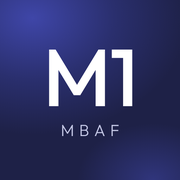
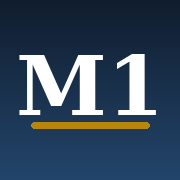
Hub M1 MBAF 6.0.5 — configuration d'icône remise à l'identique de la 5.1
Claude-Session: https://claude.ai/code/session_01NkqTKtuppBRBWMxP22mcFo

diff --git a/sw.js b/sw.js
@@ -13,7 +13,7 @@
    ⚠ Cette valeur doit rester IDENTIQUE à VERSION_APP,
       en haut de ui.js.
    ════════════════════════════════════════════════════════════ */
-const VERSION = '6.0.4';        // « Ducat »
+const VERSION = '6.0.5';        // « Ducat »
 const CACHE_APP  = 'm1-app-'+VERSION;      // les fichiers du site
 const CACHE_EXT  = 'm1-ext-'+VERSION;      // polices et bibliothèques externes
 
@@ -44,7 +44,9 @@ const FICHIERS = [
   'banque.js',
   'calendrier.js',
   'bequick.js',
-  /* (les icônes et le manifeste ne passent pas par le service worker) */
+  'manifest.webmanifest',
+  'icons/icon-192.png',
+  'icons/icon-512.png',
   /* Copies locales des photos de matière : affichées si Unsplash ne répond pas */
   'img/accueil.webp',
   'img/sujet-droits-particuliers.webp',
@@ -91,9 +93,6 @@ self.addEventListener('fetch', e=>{
   if(req.method !== 'GET') return;
   const url = new URL(req.url);
 
-  /* Icônes et manifeste : jamais interceptés, le téléphone les lit directement
-     (l'icône d'écran d'accueil de l'iPhone ne doit dépendre de rien d'autre) */
-  if(url.origin === self.location.origin && /\/icons\/|apple-touch-icon|favicon|manifest\.webmanifest/.test(url.pathname)) return;
   /* Les fonctions Netlify (notification de test) : toujours le réseau */
   if(url.pathname.startsWith('/.netlify/')) return;
 

diff --git a/marche_des_particuliers.html b/marche_des_particuliers.html
@@ -258,15 +258,9 @@ h1.lesson-title{font-family:'Fraunces',serif;font-size:2.35rem;line-height:1.12;
 </style>
 <link rel="stylesheet" href="ui.css">
 <link rel="stylesheet" href="theme.css">
-<link rel="manifest" href="/manifest.webmanifest?v=603">
+<link rel="manifest" href="manifest.webmanifest">
 <meta name="theme-color" content="#ECEEF6">
-<link rel="icon" type="image/png" sizes="32x32" href="icons/favicon-32.png">
-<link rel="icon" type="image/png" sizes="48x48" href="icons/favicon-48.png">
-<link rel="apple-touch-icon" href="/apple-touch-icon.png?v=603">
-<link rel="apple-touch-icon" sizes="120x120" href="/icons/apple-touch-icon-120.png?v=603">
-<link rel="apple-touch-icon" sizes="152x152" href="/icons/apple-touch-icon-152.png?v=603">
-<link rel="apple-touch-icon" sizes="167x167" href="/icons/apple-touch-icon-167.png?v=603">
-<link rel="apple-touch-icon" sizes="180x180" href="/icons/apple-touch-icon-180.png?v=603">
+<link rel="apple-touch-icon" href="icons/apple-touch-icon.png">
 <meta name="apple-mobile-web-app-capable" content="yes">
 <meta name="apple-mobile-web-app-title" content="M1 MBAF">
 </head>

diff --git a/marketing_numerique.html b/marketing_numerique.html
@@ -228,15 +228,9 @@ h1.lesson-title{font-family:'Fraunces',serif;font-size:2.35rem;line-height:1.12;
 </style>
 <link rel="stylesheet" href="ui.css">
 <link rel="stylesheet" href="theme.css">
-<link rel="manifest" href="/manifest.webmanifest?v=603">
+<link rel="manifest" href="manifest.webmanifest">
 <meta name="theme-color" content="#ECEEF6">
-<link rel="icon" type="image/png" sizes="32x32" href="icons/favicon-32.png">
-<link rel="icon" type="image/png" sizes="48x48" href="icons/favicon-48.png">
-<link rel="apple-touch-icon" href="/apple-touch-icon.png?v=603">
-<link rel="apple-touch-icon" sizes="120x120" href="/icons/apple-touch-icon-120.png?v=603">
-<link rel="apple-touch-icon" sizes="152x152" href="/icons/apple-touch-icon-152.png?v=603">
-<link rel="apple-touch-icon" sizes="167x167" href="/icons/apple-touch-icon-167.png?v=603">
-<link rel="apple-touch-icon" sizes="180x180" href="/icons/apple-touch-icon-180.png?v=603">
+<link rel="apple-touch-icon" href="icons/apple-touch-icon.png">
 <meta name="apple-mobile-web-app-capable" content="yes">
 <meta name="apple-mobile-web-app-title" content="M1 MBAF">
 </head>

diff --git a/produits_derives.html b/produits_derives.html
@@ -237,15 +237,9 @@ h1.lesson-title{font-family:'Fraunces',serif;font-size:2.35rem;line-height:1.12;
 </style>
 <link rel="stylesheet" href="ui.css">
 <link rel="stylesheet" href="theme.css">
-<link rel="manifest" href="/manifest.webmanifest?v=603">
+<link rel="manifest" href="manifest.webmanifest">
 <meta name="theme-color" content="#ECEEF6">
-<link rel="icon" type="image/png" sizes="32x32" href="icons/favicon-32.png">
-<link rel="icon" type="image/png" sizes="48x48" href="icons/favicon-48.png">
-<link rel="apple-touch-icon" href="/apple-touch-icon.png?v=603">
-<link rel="apple-touch-icon" sizes="120x120" href="/icons/apple-touch-icon-120.png?v=603">
-<link rel="apple-touch-icon" sizes="152x152" href="/icons/apple-touch-icon-152.png?v=603">
-<link rel="apple-touch-icon" sizes="167x167" href="/icons/apple-touch-icon-167.png?v=603">
-<link rel="apple-touch-icon" sizes="180x180" href="/icons/apple-touch-icon-180.png?v=603">
+<link rel="apple-touch-icon" href="icons/apple-touch-icon.png">
 <meta name="apple-mobile-web-app-capable" content="yes">
 <meta name="apple-mobile-web-app-title" content="M1 MBAF">
 </head>

diff --git a/glossaire.html b/glossaire.html
@@ -98,15 +98,9 @@ mark{background:var(--amber-l);color:inherit;padding:0 2px;border-radius:3px;fon
 </style>
 <link rel="stylesheet" href="ui.css">
 <link rel="stylesheet" href="theme.css">
-<link rel="manifest" href="/manifest.webmanifest?v=603">
+<link rel="manifest" href="manifest.webmanifest">
 <meta name="theme-color" content="#ECEEF6">
-<link rel="icon" type="image/png" sizes="32x32" href="icons/favicon-32.png">
-<link rel="icon" type="image/png" sizes="48x48" href="icons/favicon-48.png">
-<link rel="apple-touch-icon" href="/apple-touch-icon.png?v=603">
-<link rel="apple-touch-icon" sizes="120x120" href="/icons/apple-touch-icon-120.png?v=603">
-<link rel="apple-touch-icon" sizes="152x152" href="/icons/apple-touch-icon-152.png?v=603">
-<link rel="apple-touch-icon" sizes="167x167" href="/icons/apple-touch-icon-167.png?v=603">
-<link rel="apple-touch-icon" sizes="180x180" href="/icons/apple-touch-icon-180.png?v=603">
+<link rel="apple-touch-icon" href="icons/apple-touch-icon.png">
 <meta name="apple-mobile-web-app-capable" content="yes">
 <meta name="apple-mobile-web-app-title" content="M1 MBAF">
 </head>

diff --git a/bequick.html b/bequick.html
@@ -164,15 +164,9 @@ main{max-width:980px;margin:0 auto;padding:12px 16px 120px;min-width:0}
 </style>
 <link rel="stylesheet" href="ui.css">
 <link rel="stylesheet" href="theme.css">
-<link rel="manifest" href="/manifest.webmanifest?v=603">
+<link rel="manifest" href="manifest.webmanifest">
 <meta name="theme-color" content="#ECEEF6">
-<link rel="icon" type="image/png" sizes="32x32" href="icons/favicon-32.png">
-<link rel="icon" type="image/png" sizes="48x48" href="icons/favicon-48.png">
-<link rel="apple-touch-icon" href="/apple-touch-icon.png?v=603">
-<link rel="apple-touch-icon" sizes="120x120" href="/icons/apple-touch-icon-120.png?v=603">
-<link rel="apple-touch-icon" sizes="152x152" href="/icons/apple-touch-icon-152.png?v=603">
-<link rel="apple-touch-icon" sizes="167x167" href="/icons/apple-touch-icon-167.png?v=603">
-<link rel="apple-touch-icon" sizes="180x180" href="/icons/apple-touch-icon-180.png?v=603">
+<link rel="apple-touch-icon" href="icons/apple-touch-icon.png">
 <meta name="apple-mobile-web-app-capable" content="yes">
 <meta name="apple-mobile-web-app-title" content="M1 MBAF">
 </head>

diff --git a/ressourcerie.html b/ressourcerie.html
@@ -169,15 +169,9 @@ h2.sec+p{color:var(--ink2);font-size:14.5px;margin-bottom:18px}
 </style>
 <link rel="stylesheet" href="ui.css">
 <link rel="stylesheet" href="theme.css">
-<link rel="manifest" href="/manifest.webmanifest?v=603">
+<link rel="manifest" href="manifest.webmanifest">
 <meta name="theme-color" content="#ECEEF6">
-<link rel="icon" type="image/png" sizes="32x32" href="icons/favicon-32.png">
-<link rel="icon" type="image/png" sizes="48x48" href="icons/favicon-48.png">
-<link rel="apple-touch-icon" href="/apple-touch-icon.png?v=603">
-<link rel="apple-touch-icon" sizes="120x120" href="/icons/apple-touch-icon-120.png?v=603">
-<link rel="apple-touch-icon" sizes="152x152" href="/icons/apple-touch-icon-152.png?v=603">
-<link rel="apple-touch-icon" sizes="167x167" href="/icons/apple-touch-icon-167.png?v=603">
-<link rel="apple-touch-icon" sizes="180x180" href="/icons/apple-touch-icon-180.png?v=603">
+<link rel="apple-touch-icon" href="icons/apple-touch-icon.png">
 <meta name="apple-mobile-web-app-capable" content="yes">
 <meta name="apple-mobile-web-app-title" content="M1 MBAF">
 </head>

diff --git a/stats.html b/stats.html
@@ -99,15 +99,9 @@ h2+.h2s{color:var(--muted);font-size:14px;margin-bottom:16px}
 </style>
 <link rel="stylesheet" href="ui.css">
 <link rel="stylesheet" href="theme.css">
-<link rel="manifest" href="/manifest.webmanifest?v=603">
+<link rel="manifest" href="manifest.webmanifest">
 <meta name="theme-color" content="#ECEEF6">
-<link rel="icon" type="image/png" sizes="32x32" href="icons/favicon-32.png">
-<link rel="icon" type="image/png" sizes="48x48" href="icons/favicon-48.png">
-<link rel="apple-touch-icon" href="/apple-touch-icon.png?v=603">
-<link rel="apple-touch-icon" sizes="120x120" href="/icons/apple-touch-icon-120.png?v=603">
-<link rel="apple-touch-icon" sizes="152x152" href="/icons/apple-touch-icon-152.png?v=603">
-<link rel="apple-touch-icon" sizes="167x167" href="/icons/apple-touch-icon-167.png?v=603">
-<link rel="apple-touch-icon" sizes="180x180" href="/icons/apple-touch-icon-180.png?v=603">
+<link rel="apple-touch-icon" href="icons/apple-touch-icon.png">
 <meta name="apple-mobile-web-app-capable" content="yes">
 <meta name="apple-mobile-web-app-title" content="M1 MBAF">
 </head>

diff --git a/droits_particuliers.html b/droits_particuliers.html
@@ -232,15 +232,9 @@ h1.lesson-title{font-family:'Fraunces',serif;font-size:2.35rem;line-height:1.12;
 </style>
 <link rel="stylesheet" href="ui.css">
 <link rel="stylesheet" href="theme.css">
-<link rel="manifest" href="/manifest.webmanifest?v=603">
+<link rel="manifest" href="manifest.webmanifest">
 <meta name="theme-color" content="#ECEEF6">
-<link rel="icon" type="image/png" sizes="32x32" href="icons/favicon-32.png">
-<link rel="icon" type="image/png" sizes="48x48" href="icons/favicon-48.png">
-<link rel="apple-touch-icon" href="/apple-touch-icon.png?v=603">
-<link rel="apple-touch-icon" sizes="120x120" href="/icons/apple-touch-icon-120.png?v=603">
-<link rel="apple-touch-icon" sizes="152x152" href="/icons/apple-touch-icon-152.png?v=603">
-<link rel="apple-touch-icon" sizes="167x167" href="/icons/apple-touch-icon-167.png?v=603">
-<link rel="apple-touch-icon" sizes="180x180" href="/icons/apple-touch-icon-180.png?v=603">
+<link rel="apple-touch-icon" href="icons/apple-touch-icon.png">
 <meta name="apple-mobile-web-app-title" content="M1 MBAF">
 </head>
 <body>

diff --git a/es_banque.html b/es_banque.html
@@ -217,15 +217,9 @@ h1.lesson-title{font-family:'Fraunces',serif;font-size:2.3rem;line-height:1.12;f
 </style>
 <link rel="stylesheet" href="ui.css">
 <link rel="stylesheet" href="theme.css">
-<link rel="manifest" href="/manifest.webmanifest?v=603">
+<link rel="manifest" href="manifest.webmanifest">
 <meta name="theme-color" content="#ECEEF6">
-<link rel="icon" type="image/png" sizes="32x32" href="icons/favicon-32.png">
-<link rel="icon" type="image/png" sizes="48x48" href="icons/favicon-48.png">
-<link rel="apple-touch-icon" href="/apple-touch-icon.png?v=603">
-<link rel="apple-touch-icon" sizes="120x120" href="/icons/apple-touch-icon-120.png?v=603">
-<link rel="apple-touch-icon" sizes="152x152" href="/icons/apple-touch-icon-152.png?v=603">
-<link rel="apple-touch-icon" sizes="167x167" href="/icons/apple-touch-icon-167.png?v=603">
-<link rel="apple-touch-icon" sizes="180x180" href="/icons/apple-touch-icon-180.png?v=603">
+<link rel="apple-touch-icon" href="icons/apple-touch-icon.png">
 <meta name="apple-mobile-web-app-title" content="M1 MBAF">
 </head>
 <body>

diff --git a/etudes_de_marche.html b/etudes_de_marche.html
@@ -236,15 +236,9 @@ h1.lesson-title{font-family:'Fraunces',serif;font-size:2.35rem;line-height:1.12;
 </style>
 <link rel="stylesheet" href="ui.css">
 <link rel="stylesheet" href="theme.css">
-<link rel="manifest" href="/manifest.webmanifest?v=603">
+<link rel="manifest" href="manifest.webmanifest">
 <meta name="theme-color" content="#ECEEF6">
-<link rel="icon" type="image/png" sizes="32x32" href="icons/favicon-32.png">
-<link rel="icon" type="image/png" sizes="48x48" href="icons/favicon-48.png">
-<link rel="apple-touch-icon" href="/apple-touch-icon.png?v=603">
-<link rel="apple-touch-icon" sizes="120x120" href="/icons/apple-touch-icon-120.png?v=603">
-<link rel="apple-touch-icon" sizes="152x152" href="/icons/apple-touch-icon-152.png?v=603">
-<link rel="apple-touch-icon" sizes="167x167" href="/icons/apple-touch-icon-167.png?v=603">
-<link rel="apple-touch-icon" sizes="180x180" href="/icons/apple-touch-icon-180.png?v=603">
+<link rel="apple-touch-icon" href="icons/apple-touch-icon.png">
 <meta name="apple-mobile-web-app-title" content="M1 MBAF">
 </head>
 <body>

diff --git a/fiscalite_particulier.html b/fiscalite_particulier.html
@@ -237,15 +237,9 @@ h1.lesson-title{font-family:'Fraunces',serif;font-size:2.35rem;line-height:1.12;
 </style>
 <link rel="stylesheet" href="ui.css">
 <link rel="stylesheet" href="theme.css">
-<link rel="manifest" href="/manifest.webmanifest?v=603">
+<link rel="manifest" href="manifest.webmanifest">
 <meta name="theme-color" content="#ECEEF6">
-<link rel="icon" type="image/png" sizes="32x32" href="icons/favicon-32.png">
-<link rel="icon" type="image/png" sizes="48x48" href="icons/favicon-48.png">
-<link rel="apple-touch-icon" href="/apple-touch-icon.png?v=603">
-<link rel="apple-touch-icon" sizes="120x120" href="/icons/apple-touch-icon-120.png?v=603">
-<link rel="apple-touch-icon" sizes="152x152" href="/icons/apple-touch-icon-152.png?v=603">
-<link rel="apple-touch-icon" sizes="167x167" href="/icons/apple-touch-icon-167.png?v=603">
-<link rel="apple-touch-icon" sizes="180x180" href="/icons/apple-touch-icon-180.png?v=603">
+<link rel="apple-touch-icon" href="icons/apple-touch-icon.png">
 <meta name="apple-mobile-web-app-title" content="M1 MBAF">
 </head>
 <body>
